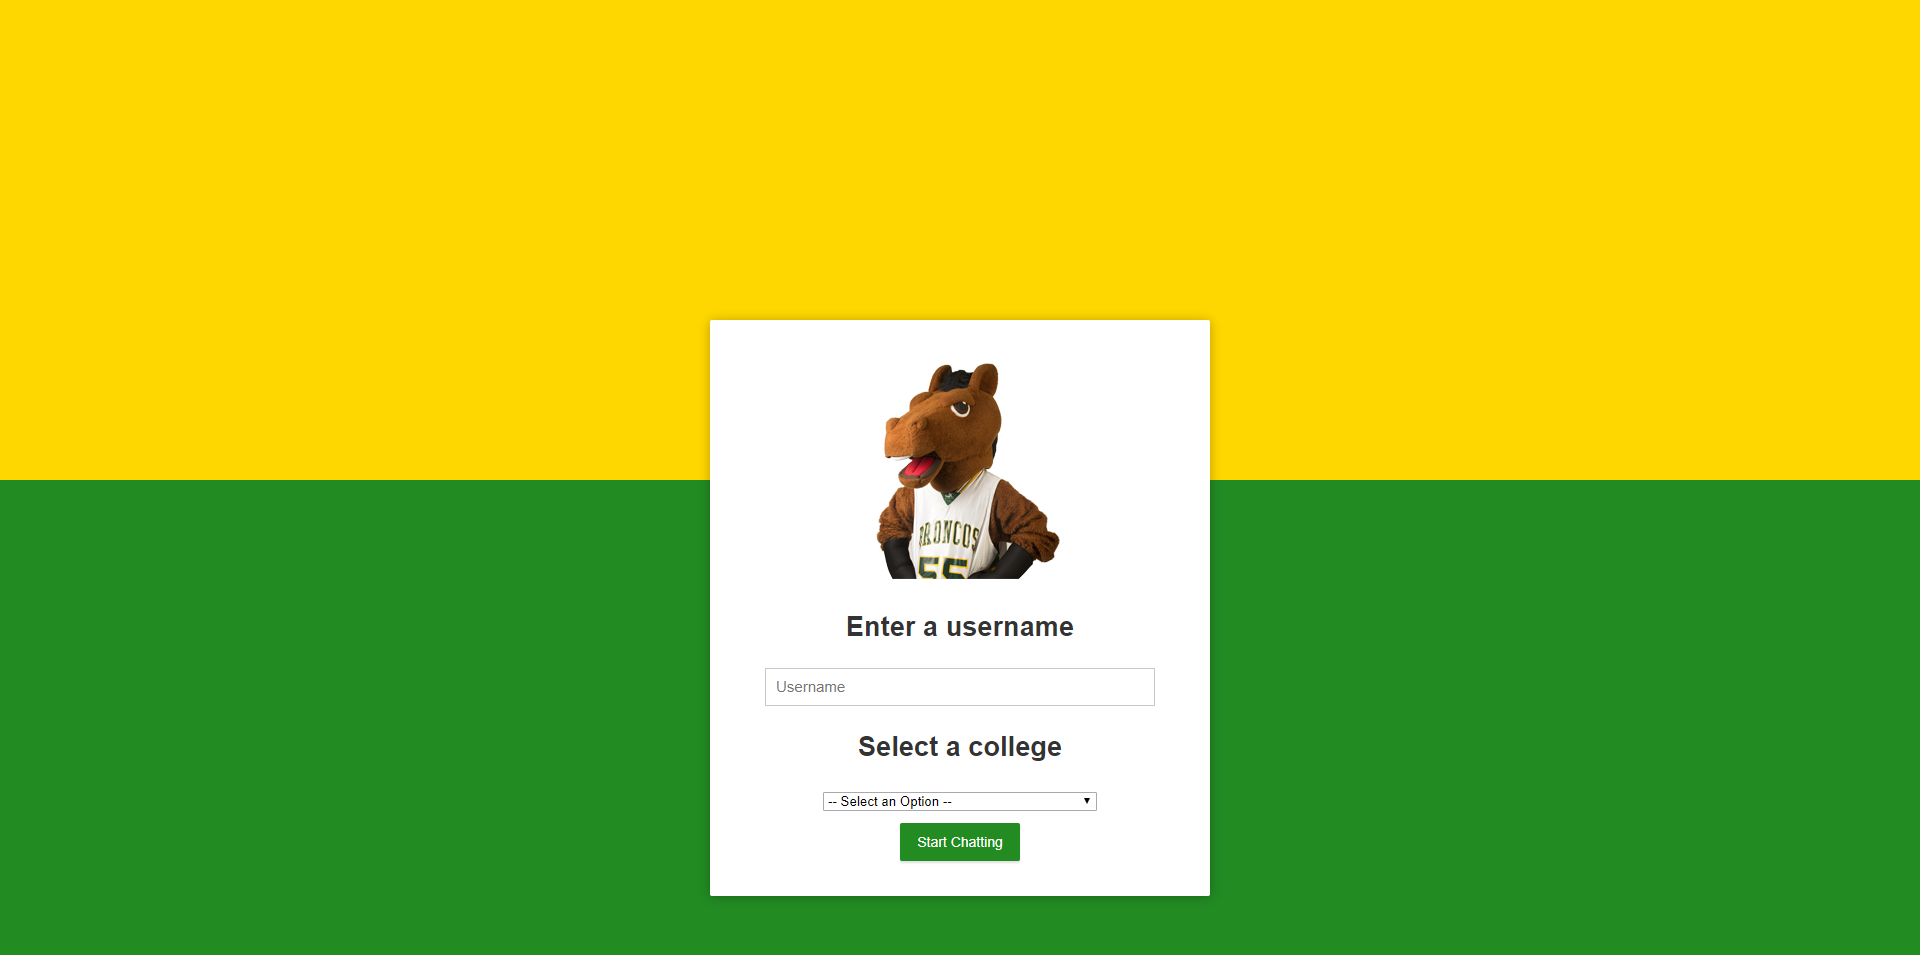
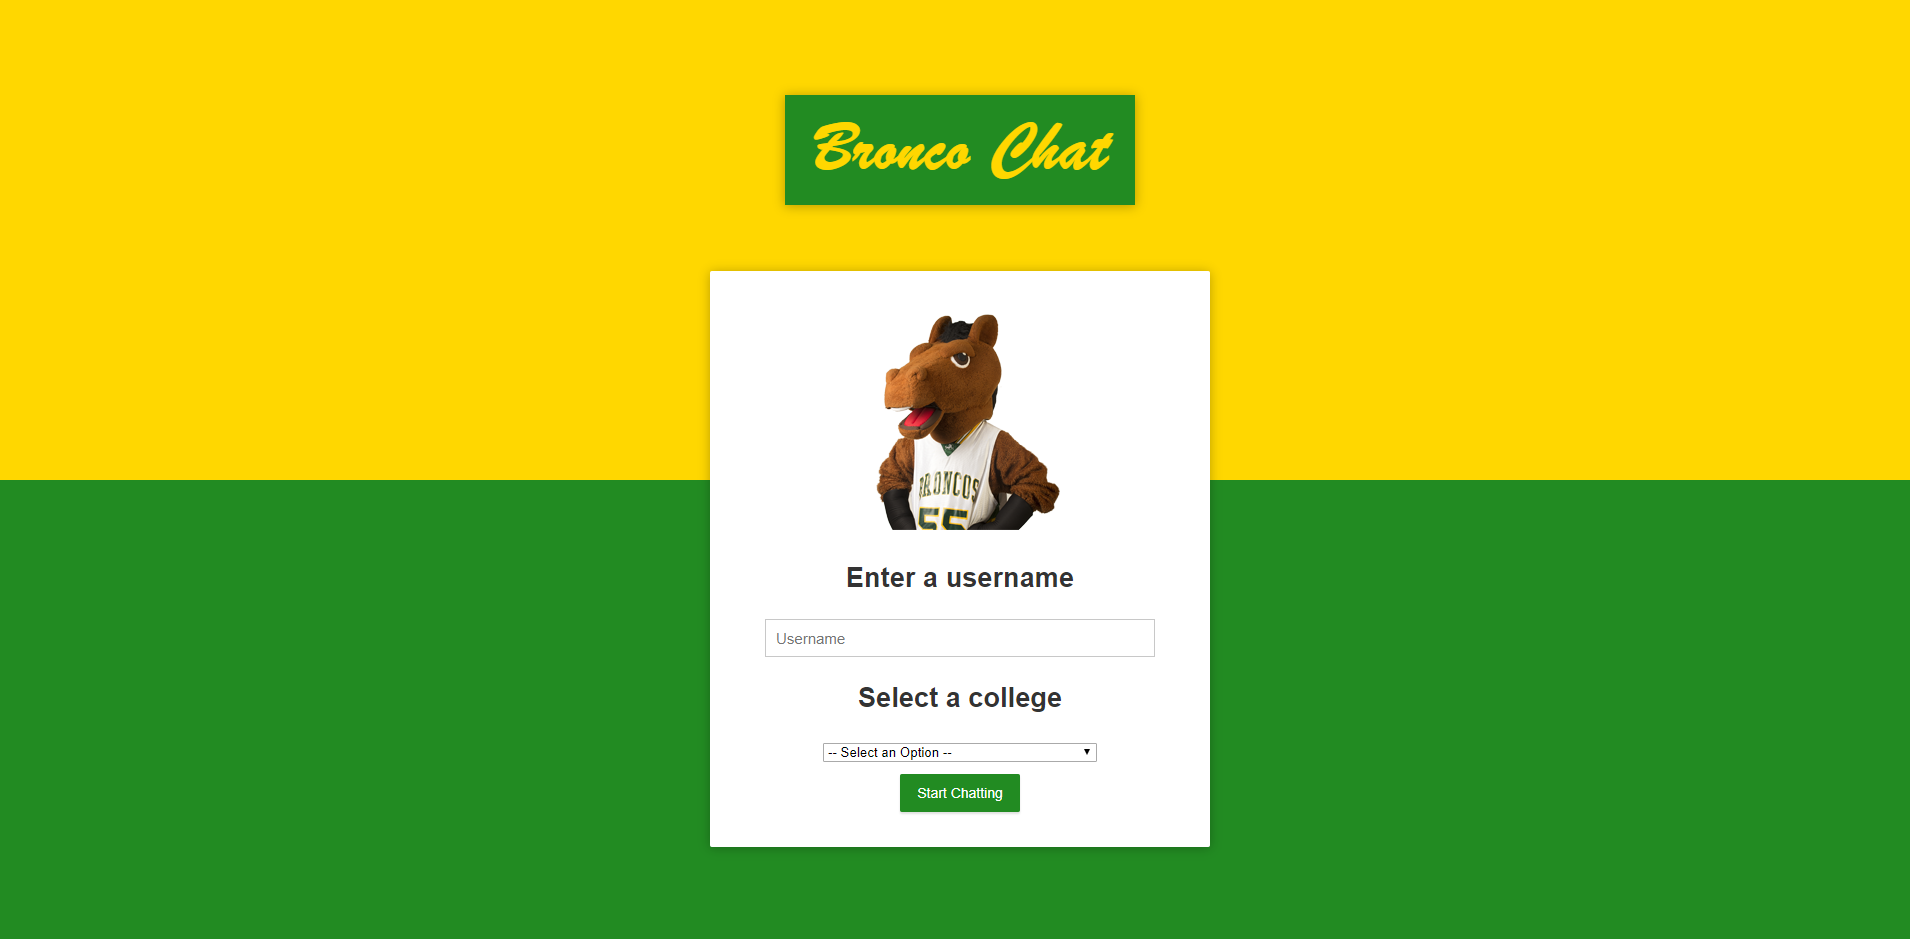
update

Changed region(s): [[0.3707, 0.278, 1.0, 0.9574], [0.4016, 0.0927, 0.6178, 0.2471], [0.0, 0.4941, 0.3707, 0.525]]

diff --git a/src/main/resources/static/css/main.css b/src/main/resources/static/css/main.css
@@ -21,6 +21,21 @@ body {
     height: 100%;
 }
 
+.title-page-container {
+	max-width: 350px;
+	font-family: Brush Script MT, Brush Script Std, cursive;
+	font-size: 41px;
+	text-align:center;
+    margin-left: auto;
+    margin-right: auto;
+    background-color: #228B22;
+    box-shadow: 0 1px 11px rgba(0, 0, 0, 0.27);
+    margin-top: 100px;
+    height: calc(100% - 60px);
+    max-height: 600px;
+    position: relative;
+}
+
 body:before {
     height: 50%;
     width: 100%;
@@ -121,7 +136,7 @@ button.accent {
     padding: 35px 55px 35px;
     min-height: 250px;
     position: absolute;
-    top: 50%;
+    top: 45%;
     left: 0;
     right: 0;
     margin: 0 auto;
@@ -216,6 +231,10 @@ button.accent {
 
 #chat-page .chat-message p {
     color: #43464b;
+}
+
+#title-page {
+	color: #FFD700;
 }
 
 #messageForm .input-group input {

diff --git a/target/classes/static/css/main.css b/target/classes/static/css/main.css
@@ -21,6 +21,21 @@ body {
     height: 100%;
 }
 
+.title-page-container {
+	max-width: 350px;
+	font-family: Brush Script MT, Brush Script Std, cursive;
+	font-size: 41px;
+	text-align:center;
+    margin-left: auto;
+    margin-right: auto;
+    background-color: #228B22;
+    box-shadow: 0 1px 11px rgba(0, 0, 0, 0.27);
+    margin-top: 100px;
+    height: calc(100% - 60px);
+    max-height: 600px;
+    position: relative;
+}
+
 body:before {
     height: 50%;
     width: 100%;
@@ -121,7 +136,7 @@ button.accent {
     padding: 35px 55px 35px;
     min-height: 250px;
     position: absolute;
-    top: 50%;
+    top: 45%;
     left: 0;
     right: 0;
     margin: 0 auto;
@@ -216,6 +231,10 @@ button.accent {
 
 #chat-page .chat-message p {
     color: #43464b;
+}
+
+#title-page {
+	color: #FFD700;
 }
 
 #messageForm .input-group input {

diff --git a/src/main/resources/static/index.html b/src/main/resources/static/index.html
@@ -10,10 +10,13 @@
       <h2>Sorry! Your browser doesn't support Javascript</h2>
     </noscript>
 
-    <div id="title">
-        <div id="header">
-            <h2>Bronco Chat</h2>
-        </div>
+
+	<div id="title-page">
+		<div class="title-page-container">
+		<h1 class="title">Bronco Chat</h1>
+		</div>
+	</div>
+
 
     <div id="username-page">
         <div class="username-page-container">

diff --git a/target/classes/static/index.html b/target/classes/static/index.html
@@ -10,10 +10,13 @@
       <h2>Sorry! Your browser doesn't support Javascript</h2>
     </noscript>
 
-    <div id="title">
-        <div id="header">
-            <h2>Bronco Chat</h2>
-        </div>
+
+	<div id="title-page">
+		<div class="title-page-container">
+		<h1 class="title">Bronco Chat</h1>
+		</div>
+	</div>
+
 
     <div id="username-page">
         <div class="username-page-container">
